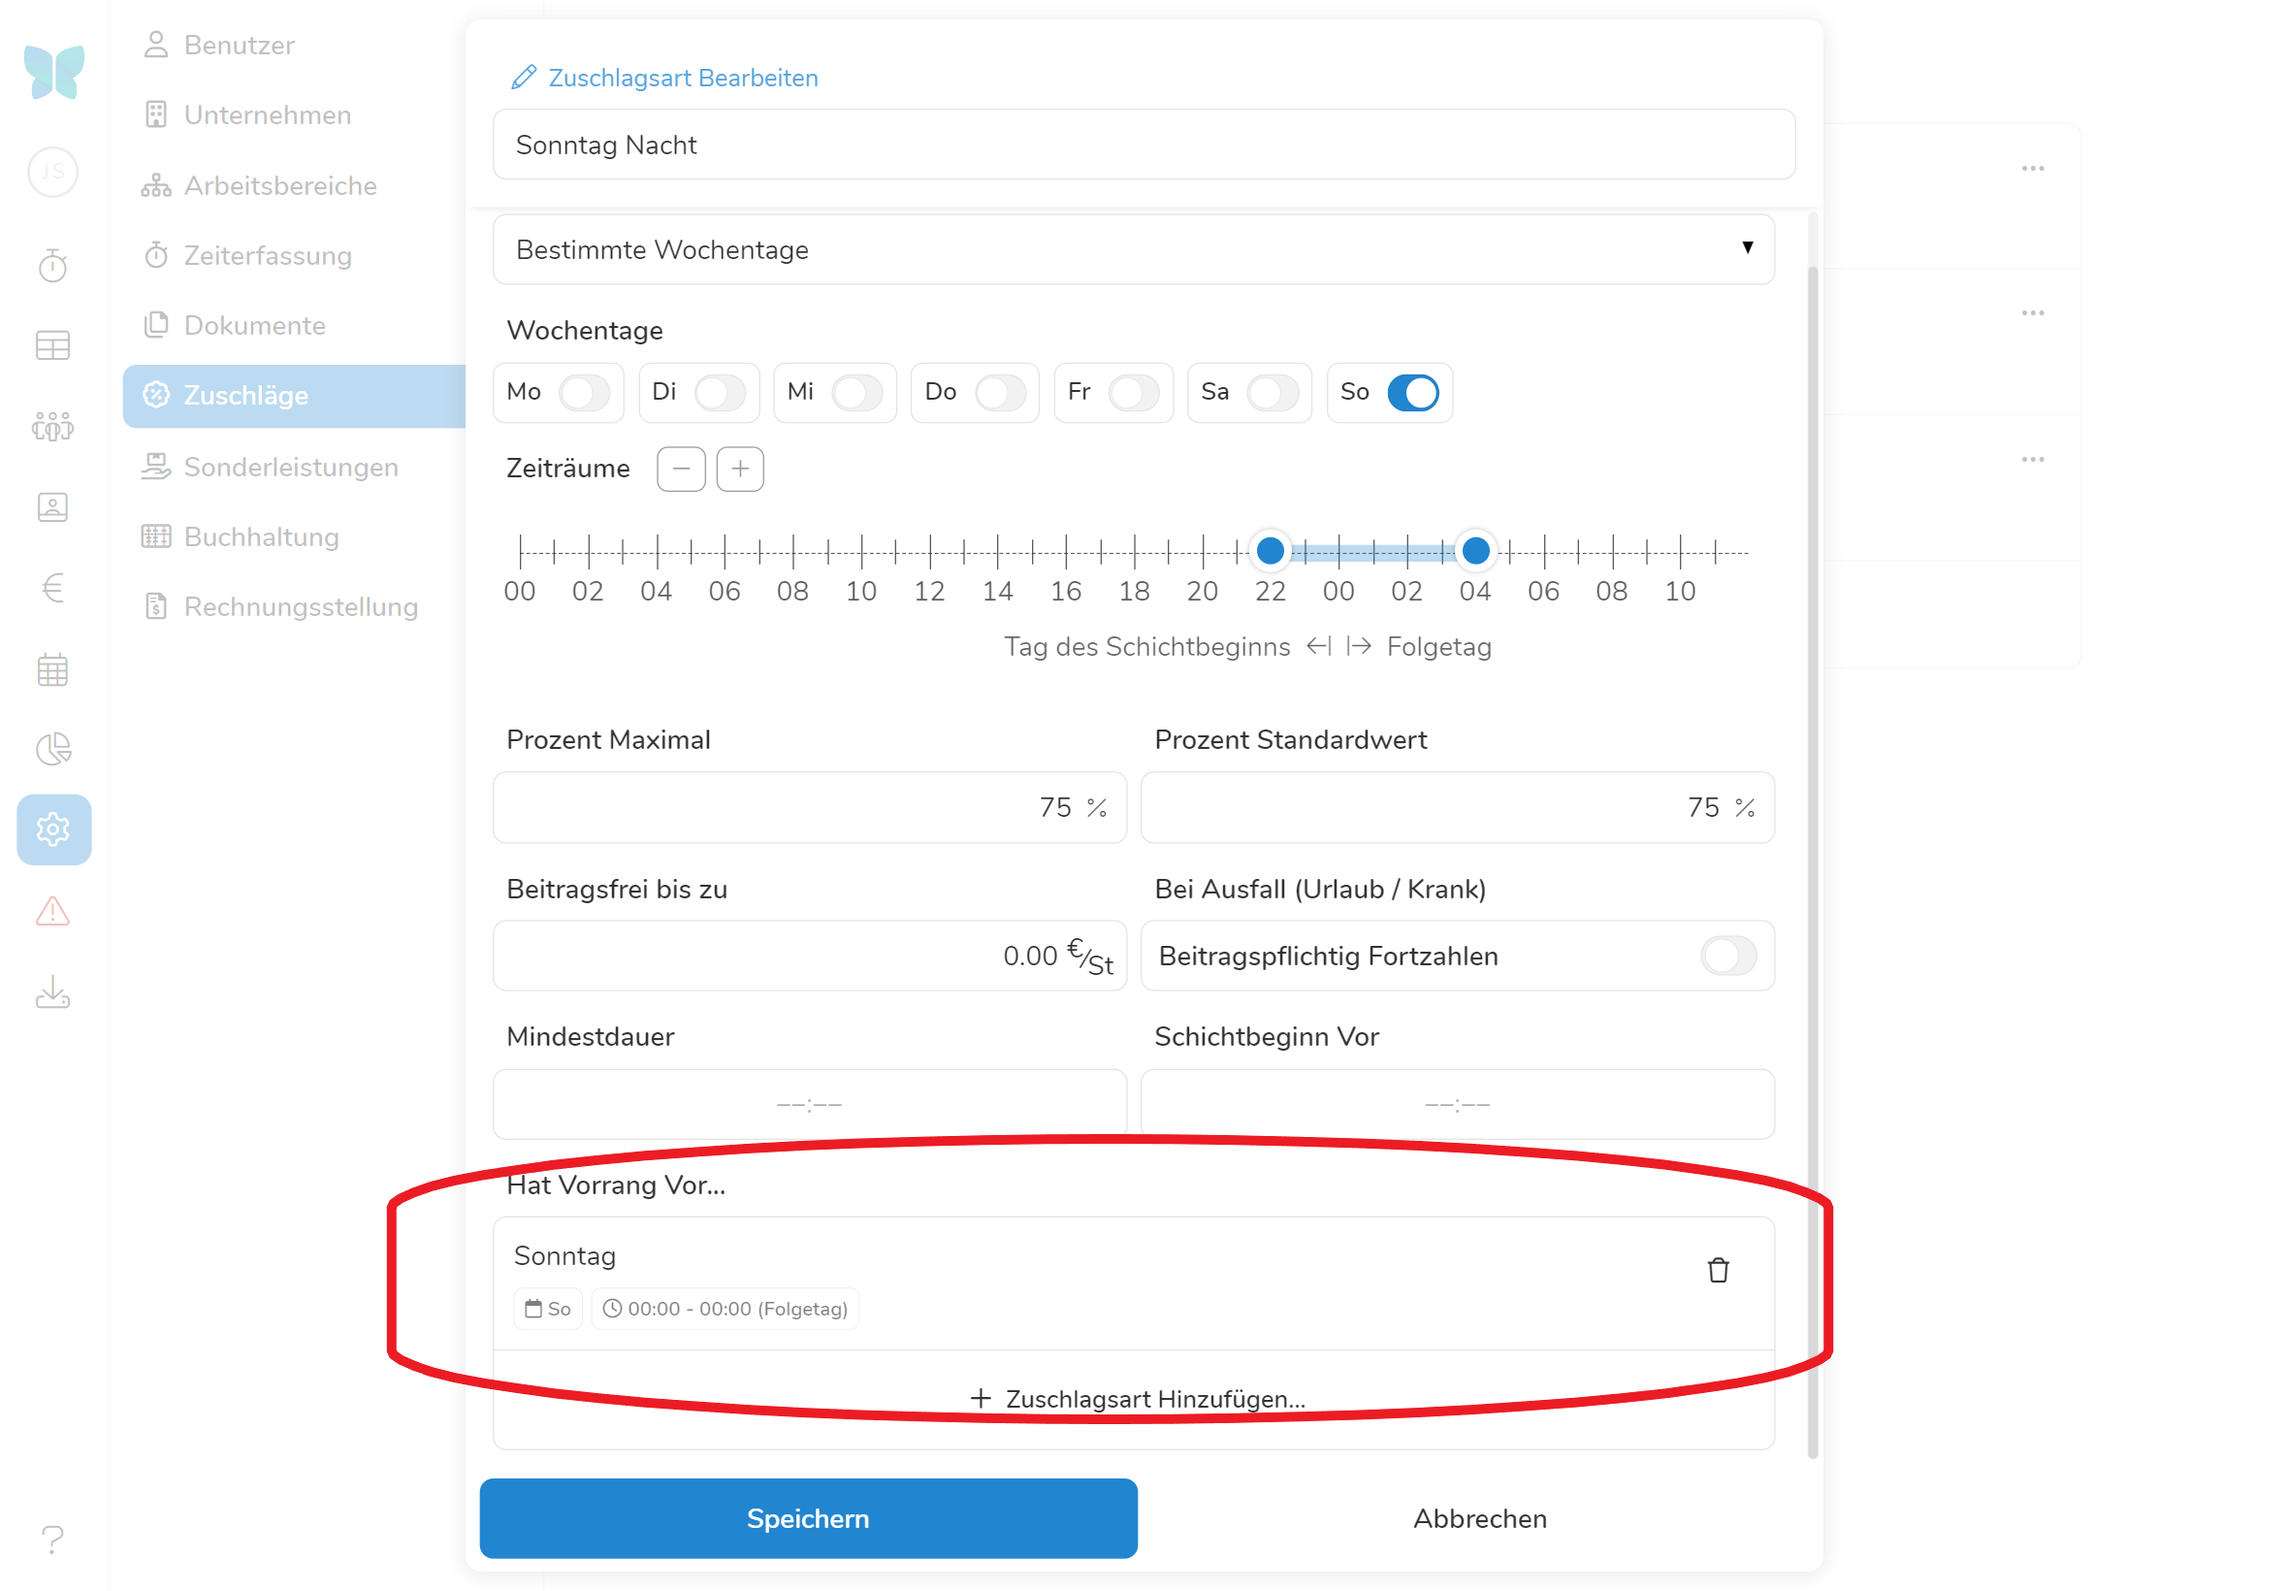
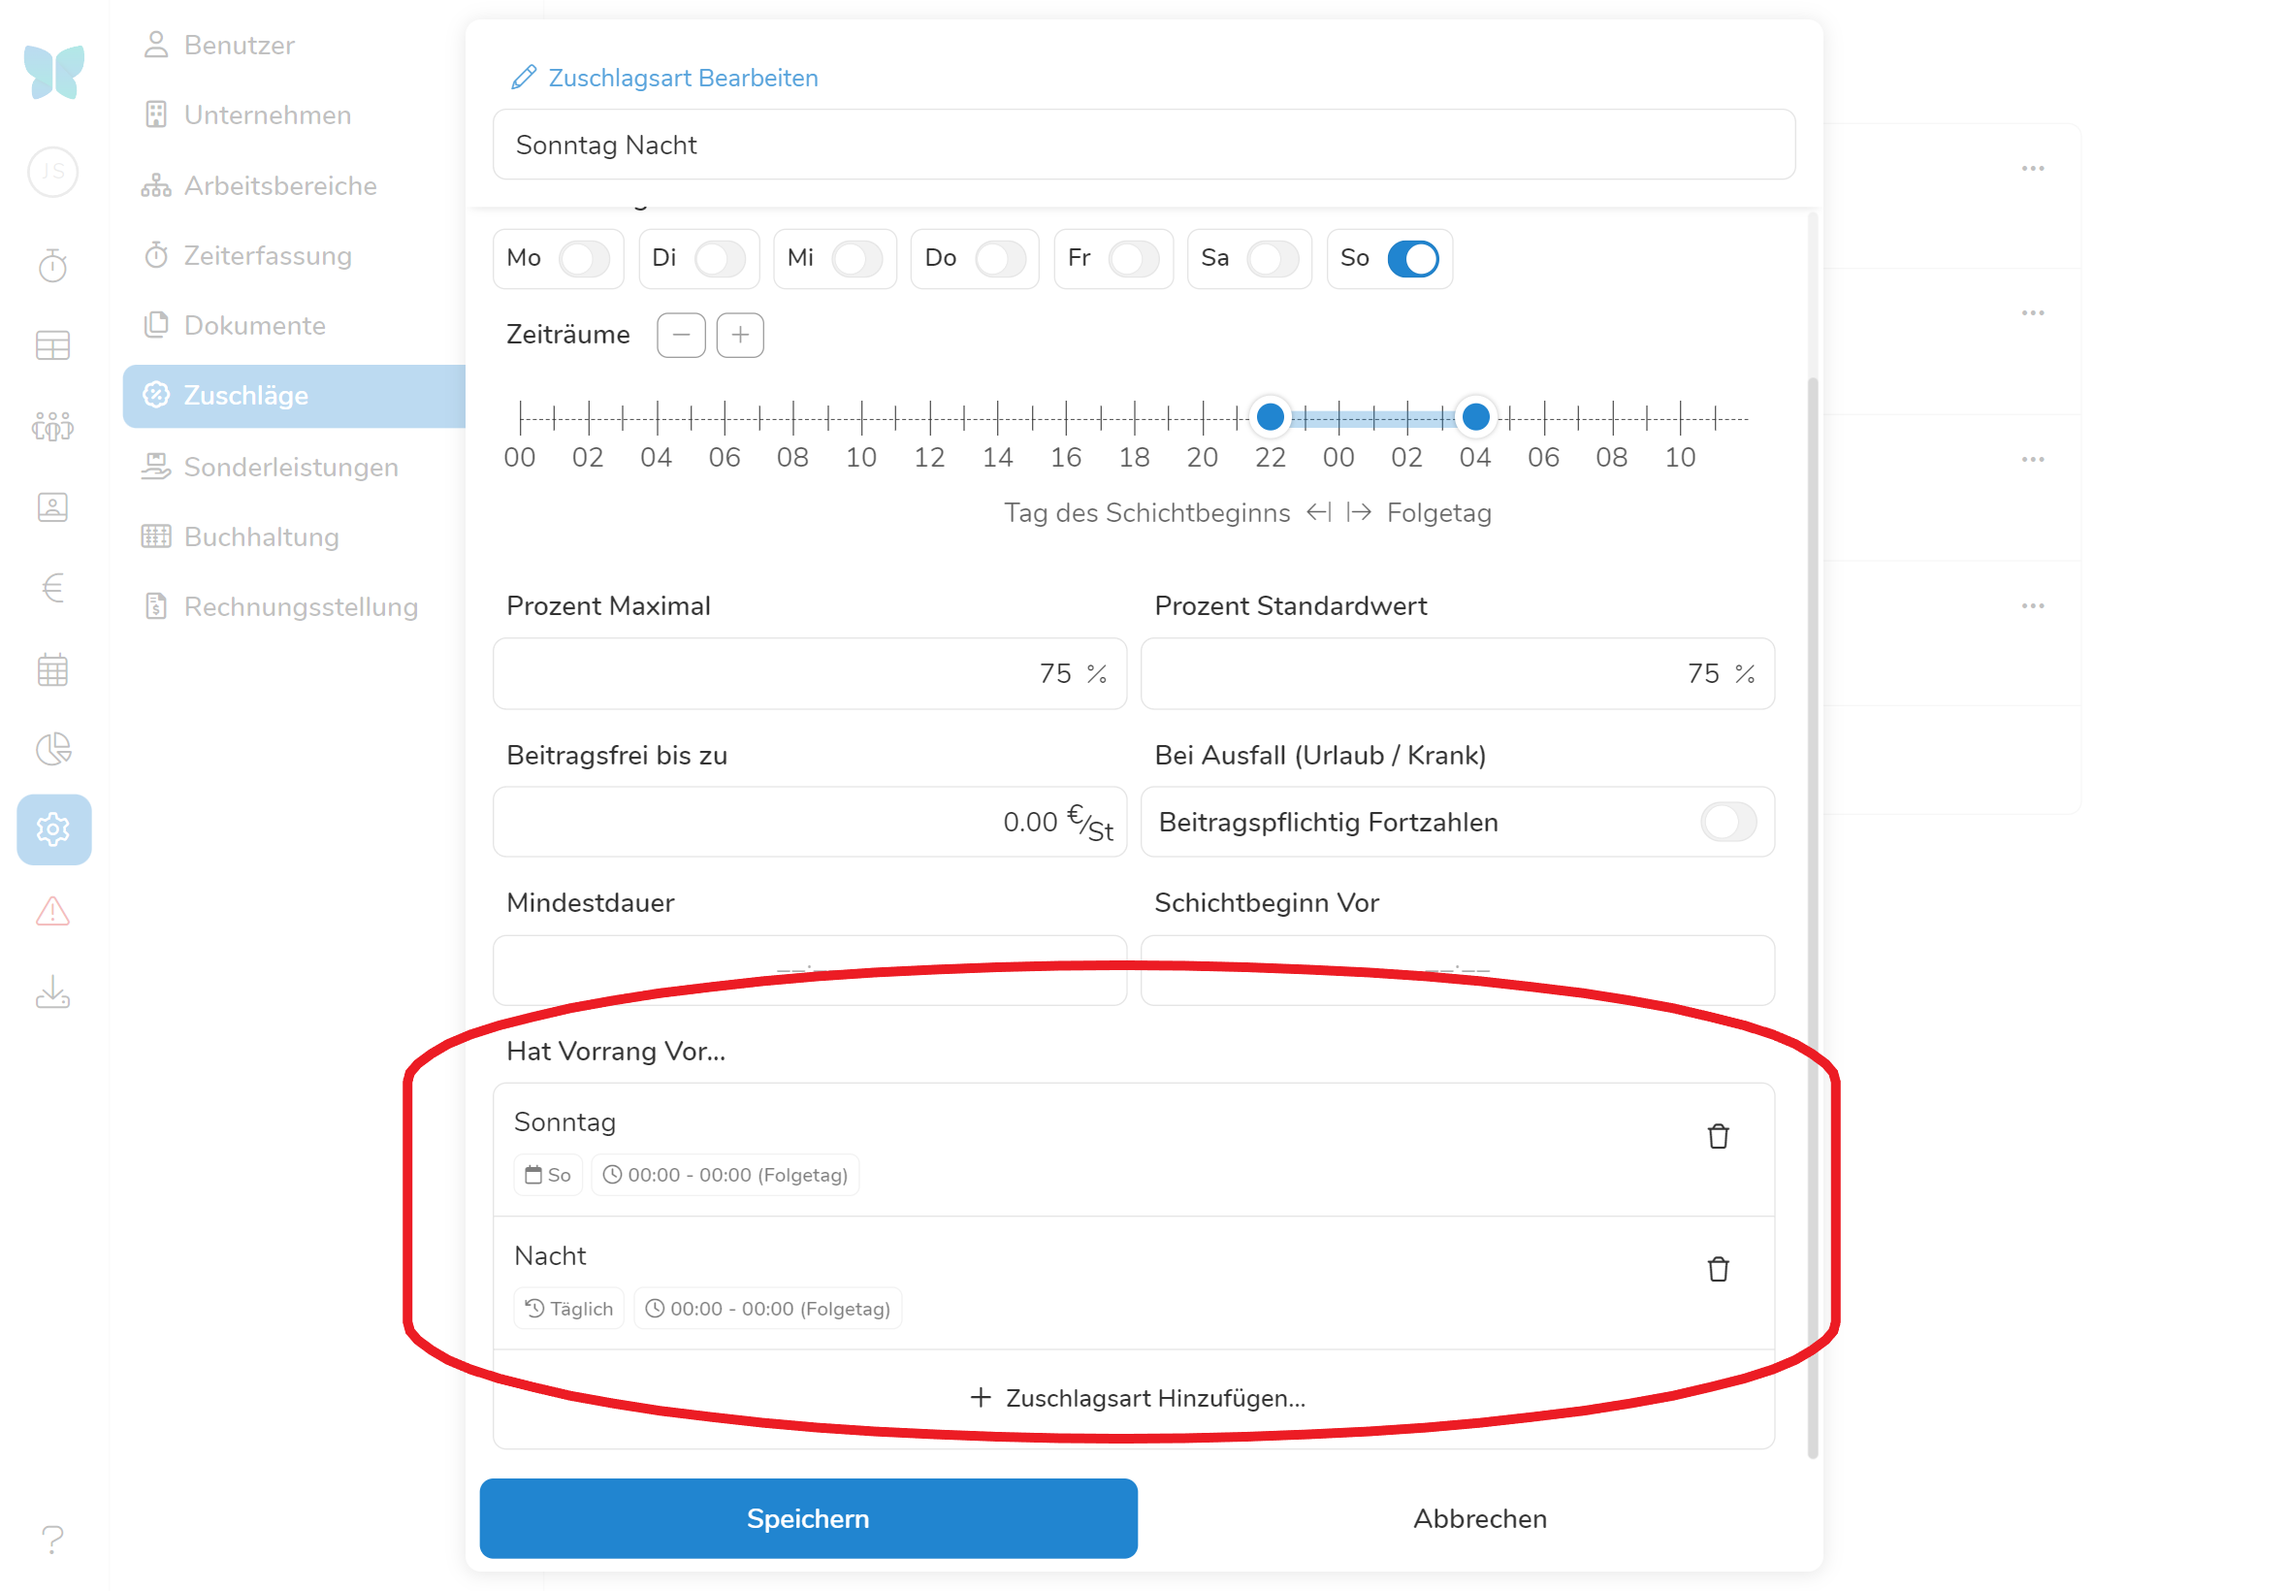
v2

diff --git a/hilfe/handbuch/einstellungen/zuschläge/index.md b/hilfe/handbuch/einstellungen/zuschläge/index.md
@@ -6,6 +6,12 @@ icon: badge-percent
 
 Zuschläge sind eine Möglichkeit, Ihre Mitarbeiter für Arbeit an bestimmten Tagen und in bestimmten Zeiträumen extra zu entlohnen. Generell sollte man dabei zwischen den gesetzlich bestimmten SFN (Sonntag, Feiertag, Nachts) und weiteren frei definierten Zuschlägen (bspw. für Samstagsschichten) unterscheiden. Diese Unterscheidung ist besonders wichtig, da die gesetzlichen SFN Zuschläge beitragsfrei ausgezahlt werden können. 
 
+## Gesetzliche SFN-Zuschläge
+
+Da die SFN-Zuschläge gesetzlich verpflichtend sind, werden diese standardmäßig jedem Mitarbeiter zugeteilt. **Sie müssen also die neue Zuschlagsoption nicht nutzen, sollten Sie keine zusätzlichen Zuschläge gewähren wollen!**
+
+>**Achtung!** Verändern Sie die grundangelegten SFN-Zuschlagsarten nur, wenn Sie wissen, was Sie tuen - Veränderungen an diesen können schnell in Lohnverstößen enden!
+
 ## Neue Zuschlagsart hinzufügen
 
 Klicken sie auf {% button icon = "plus", label = "Neue Zuschlagsart"%} um eine neuen Zuschlagsart zu erstellen. Anschließend öffnet sich ein Bearbeitungsdialog in welchem Sie die Eigenschaften des Zuschlags definieren können. 
@@ -20,14 +26,14 @@ Hier können Sie auswählen, an welchen Tage der Zuschlag zu Wirkung kommen soll
 
 #### Täglich
 
-Der Zuschlag wird allen ausgewählten Mitarbeitern jeden Tag im ausgewählten Zeitraum angerechnet. *Nützlich bspw. für Nachtschichten.*
+Der Zuschlag wird allen ausgewählten Mitarbeitern jeden Tag im ausgewählten Zeitraum angerechnet. **Nützlich bspw. für Nachtschichten.**
 
 #### Bestimmte Wochentage
 
 Der Zuschlag wird allen ausgewählten Mitarbeitern an den ausgewählten Tagen angerechnet. Wählen Sie dazu einfach die gewünschten Wochentage aus. 
 
-{% figure caption= "Dieser Zuschlag wird den Mitarbeitern nur Samstags von 20 Uhr bis 4 Uhr des foglenden Tages angerechnet"%}
-<img src =  "samstagszuschlag.webp">
+{% figure caption= "Dieser Zuschlag wird den Mitarbeitern nur Samstags von 20 Uhr bis 4 Uhr des foglenden Tages angerechnet."%}
+<img src = "samstagnacht.webp">
 {% endfigure %}
 
 #### Feiertage
@@ -56,15 +62,21 @@ Dieser Wert ist die Norm, die beim Auswählen dieser Zuschlagsart für einen Mit
 
 ### Beitragsfrei bis zu
 
-Hier wird bestimmt ob der Zuschlag betragsfrei abgerechnet werden kann. **Generell gilt, dass nur gesetzlich verpflichtete SFN-Zuschläge bis zu 25€/h beitragsfrei sind.** Sollte es sich um einen SFN-Zuschlag handeln haben Sie normalerweise natürlich Interesse daran diesen so lange wie möglich beitragsfrei abzurechnen. Deshalb sollte in dieses Feld normalerweise mit 25€/h für gesetzlich verpflichtende und 0€/h für restliche Zuschläge ausgefüllt werden. 
+Hier wird bestimmt ob der Zuschlag betragsfrei abgerechnet werden kann. **Generell gilt, dass nur gesetzlich verpflichtete SFN-Zuschläge bis zu 25€/h beitragsfrei sind.** Sollte es sich um einen SFN-Zuschlag handeln haben Sie normalerweise natürlich Interesse daran diesen so lange wie möglich beitragsfrei abzurechnen. Deshalb sollte dieses Feld normalerweise mit 25€/h für gesetzlich verpflichtende und 0€/h für restliche Zuschläge ausgefüllt werden. 
 
 > **Achtung!** Zuschläge außerhalb der gesetzlich vorgeschriebenen SFN-Zuschläge können nicht beitragsfrei abgerechnet werden - dies würde einer Abgabenhinterziehung gleichkommen!
 
 ### Bei Ausfall (Urlaub / Krank)
 
+Was passiert wenn ein Mitarbeiter einer zuschlagsberechtigten Schicht zugeteilt ist, diese aber nicht antreten kann weil er erkrankt oder beurlaubt ist? Zwar dürfen diese nicht angetretenen Zuschlagsschichten nicht beitragsfrei abgerechnet werden - wenn Sie wollen können Sie ihren Mitarbeitern aber auch dann **den Zuschlag beitragspflicht gewähren**. 
+
 ### Mindestdauer
 
-Sollten Zuschläge erst ab einer gewissen Schichtdauer angerechnet werden, können Sie dies hier auswählen. Geben Sie dazu einfach die Mindestdauer in das Feld ein - beim Überschreiten der Schichtlänge wird der Zuschlag für die ganze Schicht angerechnet. 
+Sollten Zuschläge erst ab einer gewissen Mindestdauer im Zuschlagszeitraum angerechnet werden, können Sie dies hier auswählen. Geben Sie dazu einfach die Mindestdauer in das Feld ein. 
+
+{% figure caption= "Der Samstagszuschlag soll erst einer Schichtdauer von 4h gewährt werden? Geben Sie die Mindestdauer einfach mit an."%}
+<img src ="mindestdauer.webp">
+{% endfigure %}
 
 ### Schichtbeginn Vor
 
@@ -75,7 +87,7 @@ Wenn ein Zuschlag nur gewährt werden soll wenn die Schicht vor einem bestimmten
 Es passiert des öfteren, dass mehrere Zuschlagszeiträume aufeinander fallen. Stellen Sie sich etwa vor ein Mitarbeiter arbeitet an einem Sonntag, der zugleich Feiertag ist. Oder eine Nachtschicht ragt von Samstag in den Sonntag. Für diese Fälle muss es klar sein, welche Zuschlagsart berücksichtigt werden soll. Wählen Sie dazu hier die Zuschlagsarten aus, **die vom aktuell ausgewählten Zuschlag überschrieben werden sollen**. 
 
 {% figure caption= "Sie wollen sonntagnachts einen besonderen Anreiz für ihre Mitarbeiter schaffen? Dann sollten Sie diesen Zuschlag vor dem normalen Nachts- und Sonntagszuschlag priorisieren"%}
-<img src =  "samstagszuschlag.webp">
+<img src =  "vorrang.webp">
 {% endfigure %}
 
 ## Zuschlagsart bearbeiten
@@ -92,13 +104,5 @@ Sie möchten eine weitere Zuschlagsart hinzufügen und eine bestehende als Vorla
 
 ## Zuschlagsarten Mitarbeitern zuordnen
 
-Um die nun erstellten Zuschläge Mitarbeitern zuzuordnen, wählen Sie den Reiter **Mitarbeiter** aus und navigieren zu den **Verträgen**. Unter **Zuschläge** können Sie nun die Zuschläge auswählen, die dem Mitarbeiter angerechnet werden sollen. 
+Um die nun erstellten Zuschläge Mitarbeitern zuzuordnen, wählen Sie den Reiter **Mitarbeiter** aus und navigieren zu den **Verträgen**. Unter **Zuschläge** können Sie nun die Zuschläge auswählen, die dem Mitarbeiter angerechnet werden sollen. Weitere Informationen zur Zuteilung finden Sie unter [Vertrag](/site/hilfe/handbuch/mitarbeiter/vertrag)
 
-Prozent maximal vs Standard
-Bei Ausfall wegen Personalplanung
-
---> Standard SFN Zuschläge schon drinnen? Wenn nicht - button "SFN Zuschläge erstellen"
---> Mindestdauer ab dann oder dann ganze schicht? + Mindestdauer überschritten außerhalb des des Zeitintervalls?
---> Bei Ausfall 
-
--- Schließt sich automatisch wenn ein Vorrang ausgewählt wird
